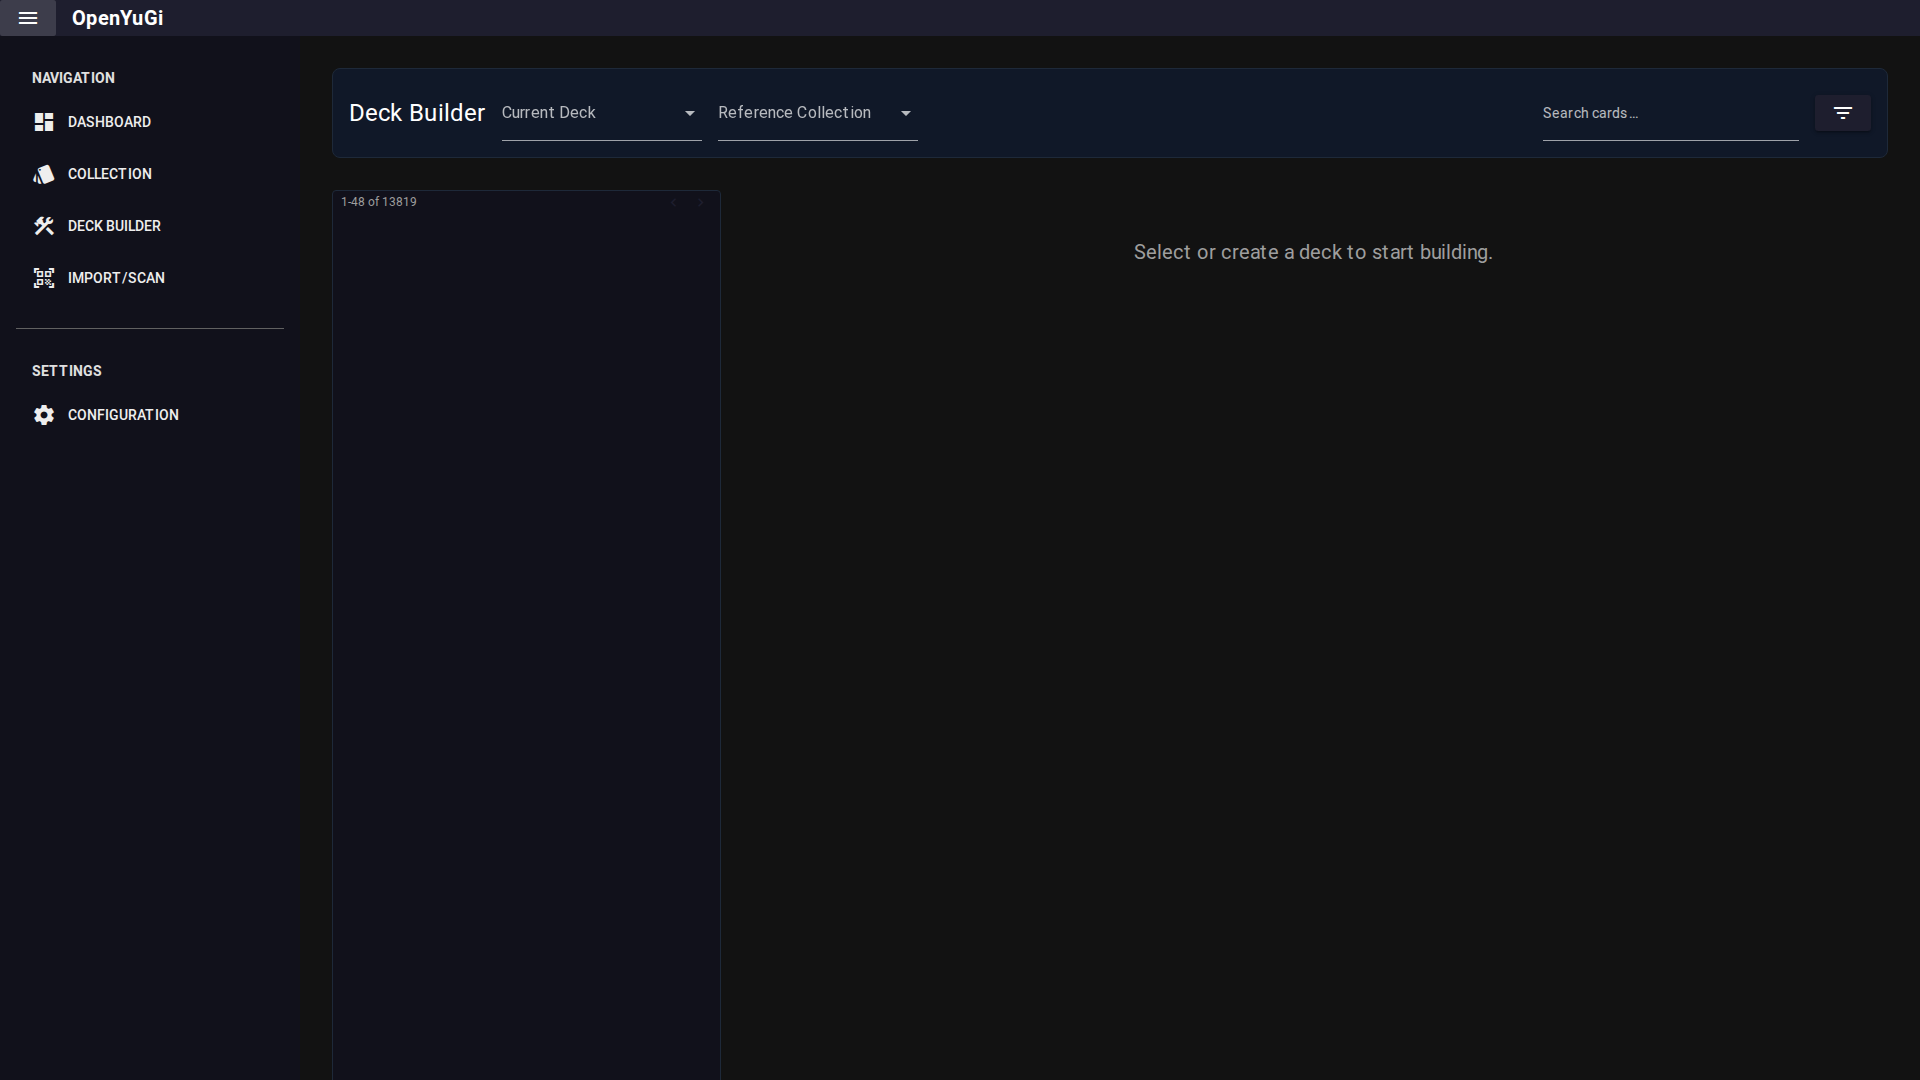
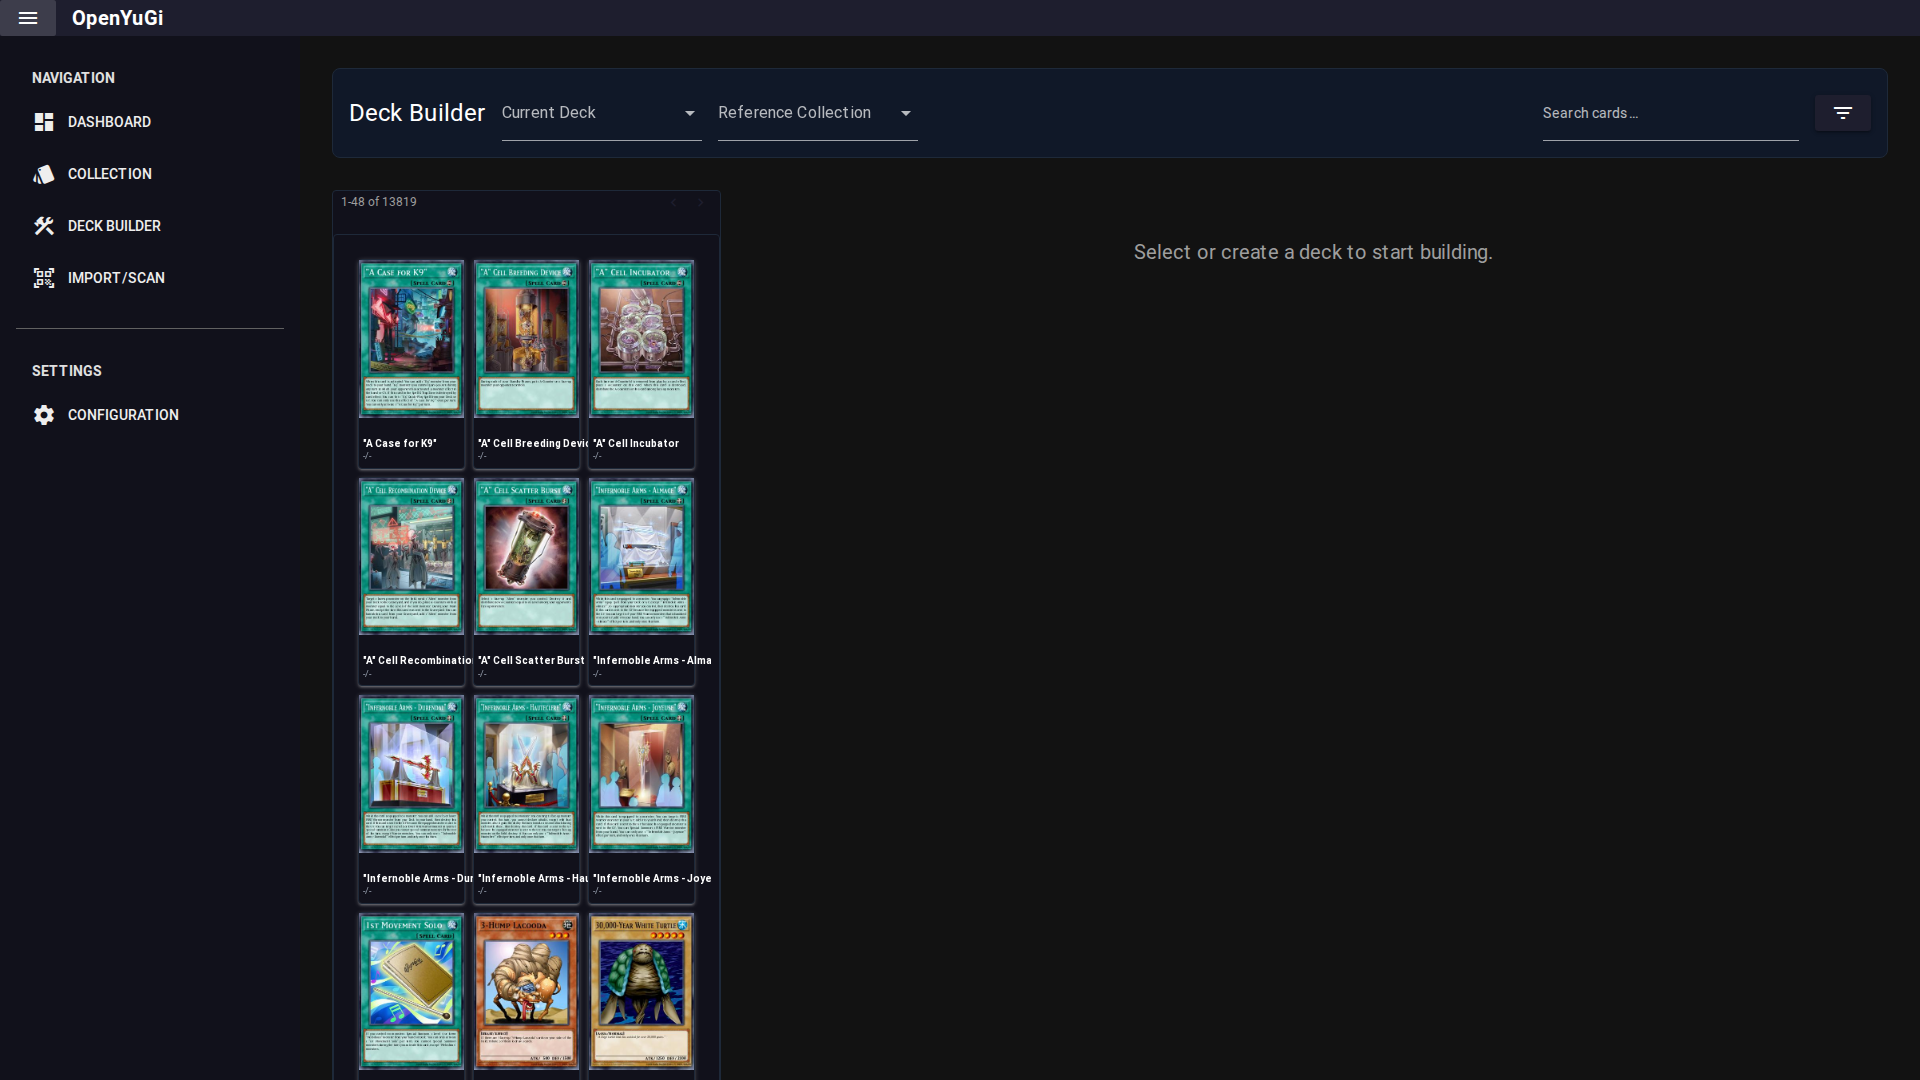
Fix invisible gallery in Deck Builder by using ui.scroll_area and correcting flex layout

Changed region(s): [[0.1875, 0.2139, 0.375, 1.0]]

diff --git a/verification/debug_dom.py b/verification/debug_dom.py
@@ -1,0 +1,52 @@
+import time
+from playwright.sync_api import sync_playwright
+
+def debug_dom_structure():
+    with sync_playwright() as p:
+        browser = p.chromium.launch(headless=True)
+        page = browser.new_page()
+        page.set_viewport_size({"width": 1920, "height": 1080})
+
+        print("Navigating...")
+        page.goto("http://localhost:8080/decks")
+        page.wait_for_load_state("networkidle")
+        time.sleep(2)
+
+        # Target the left column
+        left_col = page.locator(".deck-builder-search-results")
+
+        # Dump the HTML structure of the left column (truncated)
+        html = left_col.inner_html()
+        print("Left Col Inner HTML (first 1000 chars):")
+        print(html[:1000])
+
+        # Check for card visibility specifically
+        card = left_col.locator(".q-card").first
+        if card.count() > 0:
+            print("First Card found.")
+            box = card.bounding_box()
+            print(f"Card Box: {box}")
+            vis = card.is_visible()
+            print(f"Card Visible (Playwright): {vis}")
+
+            # Check computed styles
+            bg = card.evaluate("el => window.getComputedStyle(el).backgroundColor")
+            print(f"Card BG Color: {bg}")
+            opacity = card.evaluate("el => window.getComputedStyle(el).opacity")
+            print(f"Card Opacity: {opacity}")
+            display = card.evaluate("el => window.getComputedStyle(el).display")
+            print(f"Card Display: {display}")
+
+            # Check parent of the card
+            parent = card.locator("..")
+            print(f"Card Parent Class: {parent.get_attribute('class')}")
+            pbox = parent.bounding_box()
+            print(f"Card Parent Box: {pbox}")
+
+        else:
+            print("No cards found in Left Col.")
+
+        browser.close()
+
+if __name__ == "__main__":
+    debug_dom_structure()

diff --git a/src/ui/deck_builder.py b/src/ui/deck_builder.py
@@ -404,7 +404,7 @@ class DeckBuilderPage:
                      ui.button(icon='chevron_left', on_click=lambda: change_page(-1)).props('flat dense size=sm')
                      ui.button(icon='chevron_right', on_click=lambda: change_page(1)).props('flat dense size=sm')
 
-            with ui.element('div').classes('w-full flex-grow border border-gray-800 rounded p-2 overflow-y-auto'):
+            with ui.scroll_area().classes('w-full flex-grow border border-gray-800 rounded p-2'):
                 if not items:
                     ui.label('No cards found.').classes('text-grey italic w-full text-center')
                     return
